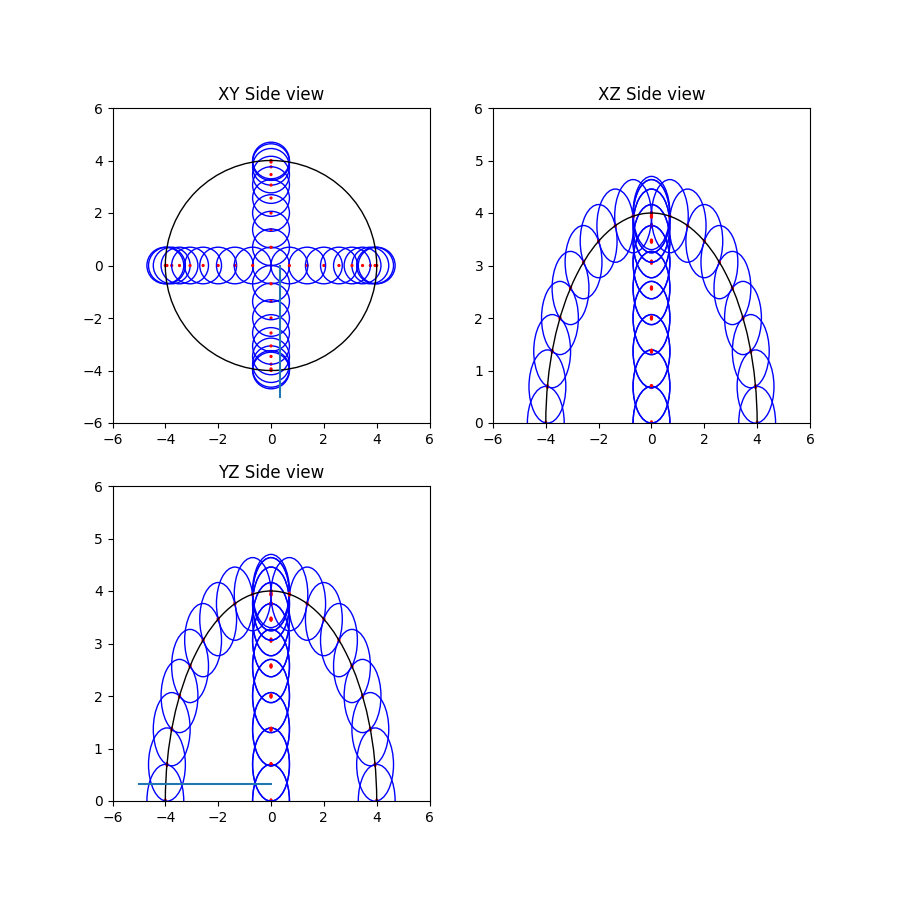
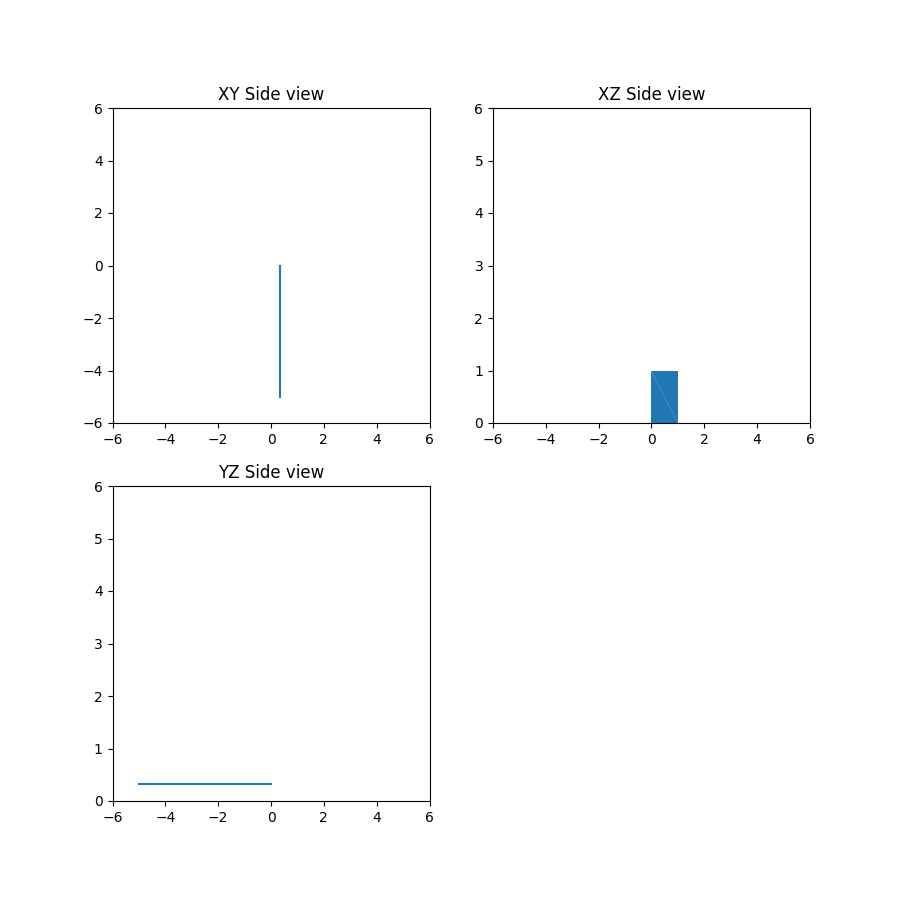
adding more tools for visualisation

Changed region(s): [[0.5911, 0.1867, 0.8711, 0.4978], [0.1556, 0.5911, 0.4356, 0.9022], [0.1556, 0.1556, 0.4356, 0.4356]]

diff --git a/pythonTools/core/energyCollectorsTools.py b/pythonTools/core/energyCollectorsTools.py
@@ -10,7 +10,7 @@ class Vec3:
     self.y = float(y)
     self.z = float(z)
 
-class ObjectInterface(ABC): 
+class objectInterface(ABC): 
   @abstractmethod
   def plotXSideView(self):
     return 
@@ -21,7 +21,7 @@ class ObjectInterface(ABC):
   def plotXYView(self):
     return 
 
-class Section(ObjectInterface):
+class Section(objectInterface):
   def __init__(self, point1, point2):
     assert isinstance(point1, Vec3)
     self.point1 = point1
@@ -43,7 +43,7 @@ class Section(ObjectInterface):
     yTemp = [self.point1.y, self.point2.y]
     plt.plot(xTemp, yTemp)
 
-class EnergyCollector(ObjectInterface):
+class EnergyCollector(objectInterface):
   def __init__(self, origin, radius):
     assert isinstance(origin, Vec3)
     self.origin = origin
@@ -88,7 +88,7 @@ class EnergyCollector(ObjectInterface):
     collectorOrigin.set_color('red')
     plt.gca().add_patch(collectorOrigin)
 
-class SphereWall(ObjectInterface):
+class SphereWall(objectInterface):
   def __init__(self, origin, radius):
     assert isinstance(origin, Vec3)
     self.origin = origin
@@ -112,12 +112,35 @@ class SphereWall(ObjectInterface):
     SimulationCircle.set_fill(False)
     plt.gca().add_patch(SimulationCircle)
 
-class CollectorReader:
-  def __init__(self, collectorFilePath, sectionFilePath=None):
+class Triangle(objectInterface):
+  def __init__(self, point1, point2, point3):
+    self.point1 = point1
+    self.point2 = point2
+    self.point3 = point3
+  
+  def plotXSideView(self):
+    triangle = plt.Polygon([[self.point1.x, self.point1.z],
+       [self.point2.x, self.point2.z], [self.point3.x, self.point3.z]])
+    plt.gca().add_patch((triangle))
+
+  def plotYSideView(self):
+    triangle = plt.Polygon([[self.point1.y, self.point1.z],
+        [self.point2.y, self.point2.z], [self.point3.y, self.point3.z]])
+    plt.gca().add_patch((triangle))
+
+  def plotXYView(self):
+    triangle = plt.Polygon([[self.point1.x, self.point1.y],
+        [self.point2.x, self.point2.y], [self.point3.x, self.point3.y]])
+    plt.gca().add_patch((triangle))
+
+class Reader:
+  def __init__(self, modelFilePath=None ,collectorFilePath=None, sectionFilePath=None):
+    self.modelFilePath = modelFilePath
     self.pathCollectors = collectorFilePath
     self.pathSections = sectionFilePath
-    self.objList = []
+    self.collectorList = []
     self.sectionList = []
+    self.triangles = []
   
   def getReadCollector(self, collectorString):
     firstSlice = collectorString[collectorString.find("Vec3(")+5:]
@@ -147,11 +170,36 @@ class CollectorReader:
     
     return Section(Vec3(x1, y1, z1), Vec3(x2, y2, z2))
 
+  def getReadTriangle(self, triangleString):
+
+    firstSlice = triangleString[triangleString.find("Vec3(")+5:]
+    x1 = firstSlice[:firstSlice.find(',')]
+    secondSlice = firstSlice[firstSlice.find(',')+2:]
+    y1 = secondSlice[:secondSlice.find(',')]
+    thirdSlice = secondSlice[secondSlice.find(',')+2:]
+    z1 = thirdSlice[:thirdSlice.find(')')]
+
+    firstSlice = thirdSlice[thirdSlice.find("Vec3(")+5:]
+    x2 = firstSlice[:firstSlice.find(',')]
+    secondSlice = firstSlice[firstSlice.find(',')+2:]
+    y2 = secondSlice[:secondSlice.find(',')]
+    thirdSlice = secondSlice[secondSlice.find(',')+2:]
+    z2 = thirdSlice[:thirdSlice.find(')')]
+
+    firstSlice = thirdSlice[thirdSlice.find("Vec3(")+5:]
+    x3 = firstSlice[:firstSlice.find(',')]
+    secondSlice = firstSlice[firstSlice.find(',')+2:]
+    y3 = secondSlice[:secondSlice.find(',')]
+    thirdSlice = secondSlice[secondSlice.find(',')+2:]
+    z3 = thirdSlice[:thirdSlice.find(')')]
+
+    return Triangle(Vec3(x1, y1, z1), Vec3(x2, y2,z2), Vec3(x3, y3, z3))
+
   def readCollectors(self):
     with open(self.pathCollectors) as f:
       for line in f.readlines():
-        self.objList.append(self.getReadCollector(line))
-    return self.objList
+        self.collectorList.append(self.getReadCollector(line))
+    return self.collectorList
 
   def readSection(self):
     if (self.pathSections is not None):
@@ -159,33 +207,56 @@ class CollectorReader:
         for line in f.readlines():
           self.sectionList.append(self.getReadSection(line))
       return self.sectionList
-  
+
+  def readTriangles(self):
+    if (self.modelFilePath is not None):
+      with open(self.modelFilePath) as f:
+        for line in f.readlines():
+          self.triangles.append(self.getReadTriangle(line))
+    return self.triangles
+
   def simulationRadius(self):
     maximum = 0
-    for collector in self.objList:
+    for collector in self.collectorList:
       maximum = max(maximum, collector.origin.z)  
     return maximum  
 
 class Plotter:
-  def __init__(self, collectorPath, sectionPath= None):
-    reader = CollectorReader(collectorPath, sectionPath)
+  def __init__(self, modelPath=None, collectorPath=None, sectionPath=None):
+    reader = Reader(modelPath ,collectorPath, sectionPath)
     self.collectorPath = collectorPath
     self.sectionPath = sectionPath 
-    self.objList = reader.readCollectors()
-    
+    self.modelPath = modelPath
+
+    if self.collectorPath is not None:
+      self.collectorList = reader.readCollectors()
+      self.simRadius = reader.simulationRadius()
+    else:
+      self.simRadius = 4
+      self.collectorList = []
+
     if (self.sectionPath is not None):
       self.sectionList = reader.readSection()
     else:
       self.sectionList = []
 
-    self.simRadius = reader.simulationRadius()
-    self.objList.append(SphereWall(Vec3(0, 0, 0), self.simRadius))
+    if self.modelPath is not None:
+      self.triangleList = reader.readTriangles()
+    else:
+      self.triangleList = []
+
+    self.collectorList.append(SphereWall(Vec3(0, 0, 0), self.simRadius))
   
   def plotXView(self):
-    for obj in self.objList:
-      obj.plotXSideView()
+    if self.collectorPath is not None:
+      for collector in self.collectorList:
+        collector.plotXSideView()
 
-    if self.sectionPath is not None:
+    if self.modelPath is not None:
+      for triangle in self.triangleList:
+        triangle.plotXSideView()
+
+    if (self.sectionPath is not None):
       for section in self.sectionList:
         section.plotXSideView()
     
@@ -195,12 +266,17 @@ class Plotter:
     plt.xlim(-lim, lim)
   
   def plotYView(self):
-    for obj in self.objList:
-      obj.plotYSideView()
+    if self.collectorPath is not None:
+      for collector in self.collectorList:
+        collector.plotYSideView()
     
     if self.sectionPath is not None:
       for section in self.sectionList:
         section.plotYSideView()
+
+    if self.modelPath is not None:
+      for triangle in self.triangleList:
+        triangle.plotYSideView()
 
     plt.title("YZ Side view")
     lim = 1.5 * self.simRadius
@@ -208,12 +284,17 @@ class Plotter:
     plt.xlim(-lim, lim)
 
   def plotXYView(self):
-    for obj in self.objList:
-      obj.plotXYView()
-    
+    if self.collectorPath is not None:
+      for collector in self.collectorList:
+        collector.plotXYView()
+      
     if self.sectionPath is not None:
       for section in self.sectionList:
         section.plotXYView()
+
+    if self.modelPath is not None:
+      for triangle in self.triangleList:
+        triangle.plotXYView()
 
     plt.title("XY Side view")
     lim = 1.5 * self.simRadius
@@ -234,6 +315,8 @@ class Plotter:
     plt.savefig(path)
     if plot:
       plt.show()
+
+
     
     
 

diff --git a/pythonTools/test/collectorTools_test.py b/pythonTools/test/collectorTools_test.py
@@ -1,15 +1,14 @@
 import pythonTools.core.energyCollectorsTools as tools
 
-reader = tools.CollectorReader(collectorFilePath="skip", sectionFilePath="skip")
+reader = tools.Reader(modelFilePath = "skip",collectorFilePath="skip", sectionFilePath="skip")
 collector = reader.getReadCollector(collectorString="5 Energy Collector. Origin: Vec3(3.93923, 0, 0.694593), Radius: 0.697246\n")
-section = reader.getReadSection(sectionString = "from: Vec3(0.333333, -5, 0.333333) to: Vec3(0.333333, 0, 0.333333)")
-
 def test_BuildCollector():
   assert collector.origin.x == 3.93923
   assert collector.origin.y == 0
   assert collector.origin.z == 0.694593
   assert collector.radius == 0.697246
 
+section = reader.getReadSection(sectionString = "from: Vec3(0.333333, -5, 0.333333) to: Vec3(0.333333, 0, 0.333333)")
 def test_Section():
   assert section.point1.x == 0.333333
   assert section.point1.y == -5
@@ -18,3 +17,17 @@ def test_Section():
   assert section.point2.x == 0.333333
   assert section.point2.y == 0
   assert section.point2.z == 0.333333
+
+triangle = reader.getReadTriangle(triangleString="Triangle Object, vertex: Vec3(1, 0, 0), Vec3(1, 0, 1), Vec3(0, 0, 1)" )
+def test_model():
+  assert triangle.point1.x == 1
+  assert triangle.point1.y == 0
+  assert triangle.point1.z == 0
+
+  assert triangle.point2.x == 1
+  assert triangle.point2.y == 0
+  assert triangle.point2.z == 1
+  
+  assert triangle.point3.x == 0
+  assert triangle.point3.y == 0
+  assert triangle.point3.z == 1

diff --git a/tests/rayTracer_test.cpp b/tests/rayTracer_test.cpp
@@ -53,10 +53,25 @@ protected:
     outFile.close();
     return true;
   }
+
+  [[nodiscard]] bool saveModel(const std::vector<TriangleObj *> &triangles,
+                               std::string_view path) {
+    std::ofstream outFile(path.data());
+    if (!outFile.good()) {
+      return false;
+    }
+    for (TriangleObj *triangle : triangles) {
+      outFile << *triangle << "\n";
+    }
+    return true;
+  }
 };
 
 TEST_F(RayTracerTest, RayReflection) {
   FakeReferenceModel model;
+  ASSERT_TRUE(saveModel(
+      model.triangles(),
+      "D:\\cpp_projects\\magisterkaCPP\\pythonTools\\data\\triangles.txt"));
   RayTracer rayTracer(&model);
   RayHitData hitData;
 

diff --git a/run.py b/run.py
@@ -7,9 +7,10 @@ projectDirectory = "D:\\cpp_projects\\magisterkaCPP\\"
 
 def run():
   plotter = tools.Plotter(
-    collectorPath = projectDirectory + "pythonTools\\data\\energyCollectors.txt",
+    modelPath= projectDirectory + "pythonTools\\data\\triangles.txt",
+    # collectorPath = projectDirectory + "pythonTools\\data\\energyCollectors.txt",
     sectionPath = projectDirectory + "pythonTools\\data\\sectionsData.txt" )
-  plotter.save( projectDirectory + "pythonTools\\data\\test" ,plot=True)
+  plotter.save( projectDirectory + "pythonTools\\data\\test", plot=True)
 
 if __name__ == "__main__":
   run()
